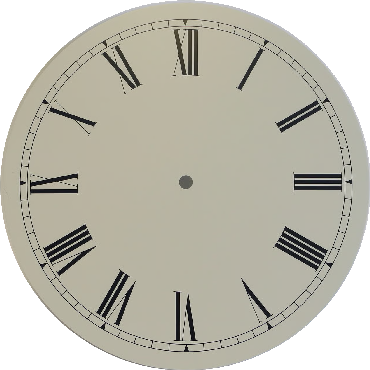
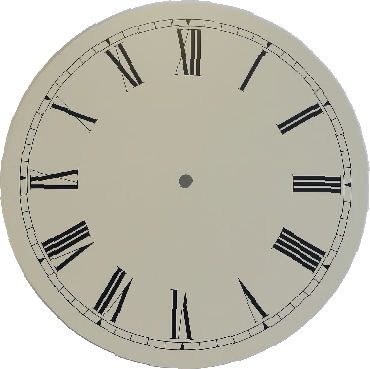
Global

diff --git a/src/app/pages/manor/dining-room/dining-room.component.ts b/src/app/pages/manor/dining-room/dining-room.component.ts
@@ -36,6 +36,8 @@ export class DiningRoomComponent {
     readonly symbolsClockValue = signal(12);
     readonly symbolsClockRotation = signal(1);
     readonly transitionSpeed = signal(1);
+    /** Enabled on interaction only, so remount/init never tweens into pose. */
+    readonly transitionsEnabled = signal(false);
     readonly isWin = computed(() =>
         this.digitsValue() === this.correctClock.digits
         && this.symbolsValue() === this.correctClock.symbols
@@ -73,52 +75,68 @@ export class DiningRoomComponent {
     ];
 
     setDigitsRotation(value:number) {
-        const diff:number = this.getValDiff(this.digitsValue(), value);
-        let rotation = 0;
-        if(diff <= 6) {
-            rotation = diff * this.rotationStep;
-            this.digitsRotation.update((current) => current + rotation);
-        }
-        else {
-            rotation = (12 - diff) * this.rotationStep;
-            this.digitsRotation.update((current) => current - rotation);
-        }
-        this.digitsValue.set(value);
-        this.checkWin();
+        this.runWithTransitions(() => {
+            const diff:number = this.getValDiff(this.digitsValue(), value);
+            let rotation = 0;
+            if(diff <= 6) {
+                rotation = diff * this.rotationStep;
+                this.digitsRotation.update((current) => current + rotation);
+            }
+            else {
+                rotation = (12 - diff) * this.rotationStep;
+                this.digitsRotation.update((current) => current - rotation);
+            }
+            this.digitsValue.set(value);
+            this.checkWin();
+        });
     }
 
     setSymbolsRotation(value:number) {
-        const diff:number = this.getValDiff(this.symbolsValue(), value);
-        let rotation = 0;
-        if(diff <= 6) {
-            rotation = diff * this.rotationStep;
-            this.symbolsRotation.update((current) => current + rotation);
-        }
-        else {
-            rotation = (12 - diff) * this.rotationStep;
-            this.symbolsRotation.update((current) => current - rotation);
-        }
-        this.symbolsValue.set(value);
-        this.checkWin();
+        this.runWithTransitions(() => {
+            const diff:number = this.getValDiff(this.symbolsValue(), value);
+            let rotation = 0;
+            if(diff <= 6) {
+                rotation = diff * this.rotationStep;
+                this.symbolsRotation.update((current) => current + rotation);
+            }
+            else {
+                rotation = (12 - diff) * this.rotationStep;
+                this.symbolsRotation.update((current) => current - rotation);
+            }
+            this.symbolsValue.set(value);
+            this.checkWin();
+        });
     }
 
     setSymbolsClockRotation(value:number) {
-        const diff:number = this.getValDiff(this.symbolsClockValue(), value);
-        let rotation = 0;
-        let speed = 0;
-        if(diff <= 6) {
-            speed = diff;
-            rotation = diff * this.rotationStep;
-            this.symbolsClockRotation.update((current) => current - rotation);
+        this.runWithTransitions(() => {
+            const diff:number = this.getValDiff(this.symbolsClockValue(), value);
+            let rotation = 0;
+            let speed = 0;
+            if(diff <= 6) {
+                speed = diff;
+                rotation = diff * this.rotationStep;
+                this.symbolsClockRotation.update((current) => current - rotation);
+            }
+            else {
+                speed = 12 - diff;
+                rotation = (12 - diff) * this.rotationStep;
+                this.symbolsClockRotation.update((current) => current + rotation);
+            }
+            this.transitionSpeed.set(speed);
+            this.symbolsClockValue.set(value);
+            this.checkWin();
+        });
+    }
+
+    /** Arm CSS transitions before the first move so remount/init never tweens. */
+    private runWithTransitions(action: () => void): void {
+        if (this.transitionsEnabled()) {
+            action();
+            return;
         }
-        else {
-            speed = 12 - diff;
-            rotation = (12 - diff) * this.rotationStep;
-            this.symbolsClockRotation.update((current) => current + rotation);
-        }
-        this.transitionSpeed.set(speed);
-        this.symbolsClockValue.set(value);
-        this.checkWin();
+        this.transitionsEnabled.set(true);
+        requestAnimationFrame(() => action());
     }
 
     checkWin() {

diff --git a/src/app/pages/manor/dining-room/dining-room.component.html b/src/app/pages/manor/dining-room/dining-room.component.html
@@ -11,22 +11,30 @@
 				class="app_dining_room__clock app_dining_room__clock--symbols"
 				[style]="'
 					transform: rotate(' + (45 + symbolsClockRotation()) + 'deg);
-					transition: all ' + (.3 * transitionSpeed()) + 's ease-in-out;
+					transition: all ' + (transitionsEnabled() ? .3 * transitionSpeed() : 0) + 's ease-in-out;
 				'"
 			>
 				<img [src]="imgPath + 'clock_symbols.png'" alt=""/>
-				<div class="app_dining_room__hand app_dining_room__hand--symbols" [style]="'transform: rotate(' + (symbolsRotation() - 45) + 'deg);'">
+				<div
+					class="app_dining_room__hand app_dining_room__hand--symbols"
+					[class.app_dining_room__hand--animated]="transitionsEnabled()"
+					[style]="'transform: rotate(' + (symbolsRotation() - 45) + 'deg);'"
+				>
 					<img [src]="imgPath + 'hand_symbols.png'" alt=""/>
 				</div>
 			</div>
-			<div class="app_dining_room__hand app_dining_room__hand--digits" [style]="'transform: rotate(' + digitsRotation() + 'deg);'">
+			<div
+				class="app_dining_room__hand app_dining_room__hand--digits"
+				[class.app_dining_room__hand--animated]="transitionsEnabled()"
+				[style]="'transform: rotate(' + digitsRotation() + 'deg);'"
+			>
 				<img [src]="imgPath + 'hand_digits.png'" alt=""/>
 			</div>
 			<ul
 				class="app_dining_room__list_triggers app_dining_room__list_triggers--symbols"
 				[style]="'
 					transform: rotate(' + symbolsClockRotation() + 'deg);
-					transition: all ' + (.3 * transitionSpeed()) + 's ease-in-out;
+					transition: all ' + (transitionsEnabled() ? .3 * transitionSpeed() : 0) + 's ease-in-out;
 				'"
 			>
 				@for (symbol of symbols; track symbol.value) {

diff --git a/src/app/pages/manor/dining-room/dining-room.component.spec.ts b/src/app/pages/manor/dining-room/dining-room.component.spec.ts
@@ -17,10 +17,22 @@ describe('DiningRoomComponent', () => {
     fixture = TestBed.createComponent(DiningRoomComponent);
     component = fixture.componentInstance;
     fixture.detectChanges();
+    // Skip the first-interaction rAF arming path in interaction tests.
+    component.transitionsEnabled.set(true);
   });
 
   it('should create', () => {
     expect(component).toBeTruthy();
+  });
+
+  it('keeps clock transitions off until a dial interaction', () => {
+    const localFixture = TestBed.createComponent(DiningRoomComponent);
+
+    expect(localFixture.componentInstance.transitionsEnabled()).toBeFalse();
+
+    localFixture.componentInstance.setDigitsRotation(3);
+
+    expect(localFixture.componentInstance.transitionsEnabled()).toBeTrue();
   });
 
   it('updates clock value signals through setters', () => {

diff --git a/src/app/pages/manor/dining-room/dining-room.component.scss b/src/app/pages/manor/dining-room/dining-room.component.scss
@@ -10,6 +10,7 @@
 		min-width: 700px;
 		background: #0f272f;
 		overflow: hidden;
+		background: url('../../../../assets/images/manor/dining-room/bg-dining-room.jpg');
 	}
 
 	&__clock_wrapper {
@@ -42,7 +43,6 @@
 		bottom: 0;
 		top: 0;
 		margin: auto;
-		transition: all .2s ease;
 		pointer-events: none;
 
 		img {
@@ -50,6 +50,10 @@
 			left: 0;
 			right: 0;
 			margin: auto;
+		}
+
+		&--animated {
+			transition: transform .2s ease;
 		}
 
 		&--digits img {	

diff --git a/src/app/pages/manor/gallery/gallery.component.scss b/src/app/pages/manor/gallery/gallery.component.scss
@@ -4,7 +4,7 @@
 	min-height: calc(100vh - $topBarHeight);
 	user-select: none;
 	font-size: 0;
-	background: url('../../../../assets/images/manor/gallery/bg.png');
+	background: url('../../../../assets/images/manor/gallery/bg-gallery.png');
 	padding: 30px;
 	overflow: auto;
 

diff --git a/src/app/pages/manor/art-room/art-room.component.scss b/src/app/pages/manor/art-room/art-room.component.scss
@@ -5,7 +5,7 @@
 
 	&__box {
 		min-height: calc(100vh - $topBarHeight);
-		background: url('../../../../assets/images/manor/art-room/bg.png');
+		background: url('../../../../assets/images/manor/art-room/bg-art-room.png');
 		@include flexCenter;
 		min-width: 1270px;
 	}

diff --git a/src/app/pages/manor/map/map.component.ts b/src/app/pages/manor/map/map.component.ts
@@ -47,7 +47,7 @@ export class MapComponent {
             posX: '85.5%',
             posY: '23%',
             width: '7%',
-            height: '18%'
+            height: '27%'
         },
         {
             name: 'Véranda',
